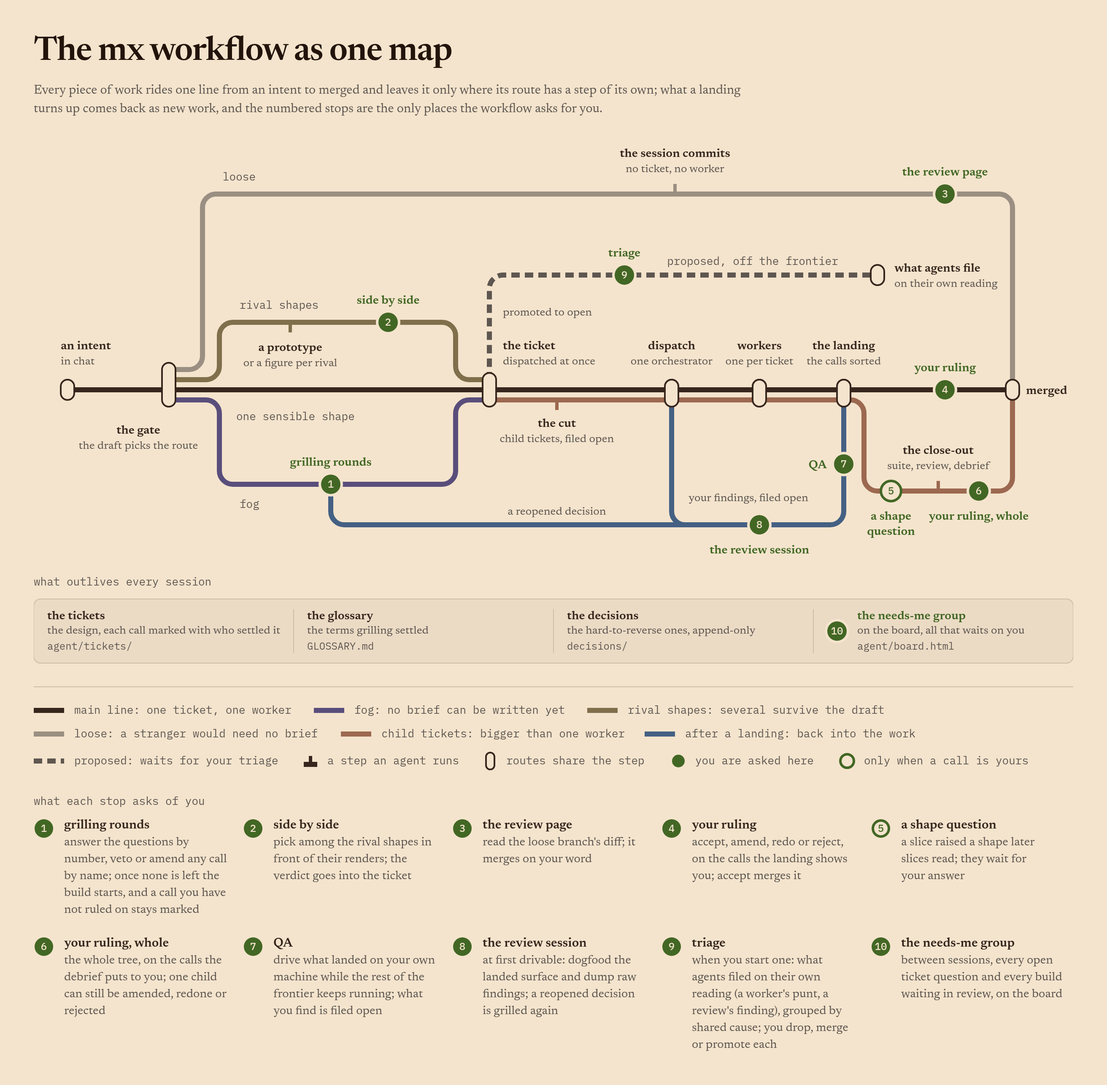
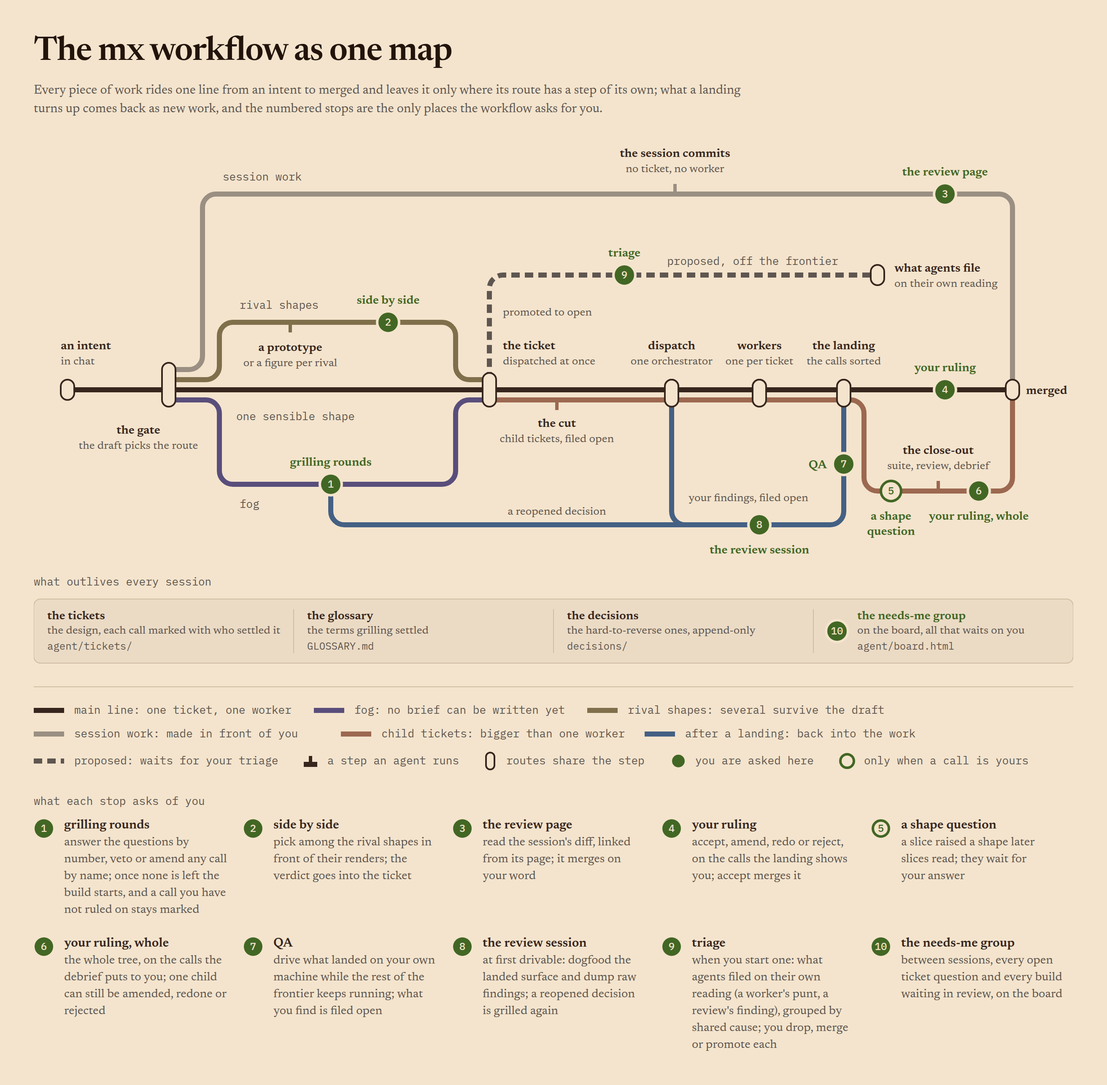
feat(orient): retire loose work; a change the session makes itself is session work
A change the session can make with the user in front of it is now session work: committed from a
worktree of its own with the trailer its content earns, reviewed lightly when it needed judgment,
delivered by a session page turn that links the review page of its range, its artefacts under the
session's own directory. The `loose` trailer, branch-named show directories and their retirement
rule go, and orient's test becomes the one it already applies to a ticket: does the change need a
brief a stranger could build from. The workflow map keeps its top route, relabelled.

Workflow-stage: implement
Session: 9eb8f56b-00c4-4993-ac76-fdb855bc9635

diff --git a/docs/figures/workflow-map.html b/docs/figures/workflow-map.html
@@ -273,7 +273,7 @@
   --l-main: var(--body);
   --l-fog: var(--series-4);
   --l-rival: var(--series-3);
-  --l-loose: color-mix(in srgb, var(--muted) 60%, var(--ground));
+  --l-session: color-mix(in srgb, var(--muted) 60%, var(--ground));
   --l-tree: var(--series-1);
   --l-loop: var(--series-2);
   --l-proposed: var(--muted);
@@ -287,7 +287,7 @@ h1{margin:0;}
 svg.map{display:block; width:100%; height:auto;}
 .ln{fill:none; stroke-width:6; stroke-linecap:butt; stroke-linejoin:round;}
 .main{stroke:var(--l-main);} .fog{stroke:var(--l-fog);} .rival{stroke:var(--l-rival);}
-.loose{stroke:var(--l-loose);} .tree{stroke:var(--l-tree);} .loop{stroke:var(--l-loop);}
+.session{stroke:var(--l-session);} .tree{stroke:var(--l-tree);} .loop{stroke:var(--l-loop);}
 .proposed{stroke:var(--l-proposed); stroke-dasharray:10 6;}
 .tick{stroke-width:4; stroke-linecap:butt;}
 .xchg{fill:var(--ground); stroke:var(--body); stroke-width:2;}
@@ -320,7 +320,7 @@ svg.map{display:block; width:100%; height:auto;}
 <!-- a data-step of N: the part appears at step N of the story page; untagged is the frame -->
 <svg class="map" viewBox="0 44 1232 1084" xmlns="http://www.w3.org/2000/svg">
   <!-- ===== lines ===== -->
-  <path data-step="5" class="ln loose" d="M168,312 H184 A16,16 0 0 0 200,296 V120 A16,16 0 0 1 216,104 H1144 A16,16 0 0 1 1160,120 V324"/>
+  <path data-step="5" class="ln session" d="M168,312 H184 A16,16 0 0 0 200,296 V120 A16,16 0 0 1 216,104 H1144 A16,16 0 0 1 1160,120 V324"/>
   <path data-step="4" class="ln rival" d="M168,324 H204 A16,16 0 0 0 220,308 V272 A16,16 0 0 1 236,256 H484 A16,16 0 0 1 500,272 V308 A16,16 0 0 0 516,324 H532"/>
   <path data-step="3" class="ln fog" d="M168,348 H204 A16,16 0 0 1 220,364 V432 A16,16 0 0 0 236,448 H484 A16,16 0 0 0 500,432 V364 A16,16 0 0 1 516,348 H532"/>
   <path data-step="6" class="ln tree" d="M548,348 H968 A16,16 0 0 1 984,364 V440 A16,16 0 0 0 1000,456 H1144 A16,16 0 0 0 1160,440 V348"/>
@@ -330,7 +330,7 @@ svg.map{display:block; width:100%; height:auto;}
   <path data-step="1" class="ln main" d="M48,336 H1152"/>
 
   <!-- ===== stations an agent runs ===== -->
-  <line data-step="5" class="tick loose" x1="760" y1="101" x2="760" y2="92"/>
+  <line data-step="5" class="tick session" x1="760" y1="101" x2="760" y2="92"/>
   <line data-step="4" class="tick rival" x1="304" y1="259" x2="304" y2="268"/>
   <line data-step="6" class="tick tree" x1="620" y1="351" x2="620" y2="360"/>
   <line data-step="8" class="tick tree" x1="1072" y1="453" x2="1072" y2="444"/>
@@ -382,7 +382,7 @@ svg.map{display:block; width:100%; height:auto;}
 
   <!-- the gate's branches -->
   <g>
-    <text data-step="5" class="tag" x="224" y="88">loose</text>
+    <text data-step="5" class="tag" x="224" y="88">session work</text>
     <text data-step="4" class="tag" x="244" y="240">rival shapes</text>
     <text data-step="1" class="tag" x="240" y="372">one sensible shape</text>
     <text data-step="3" class="tag" x="244" y="476">fog</text>
@@ -450,7 +450,7 @@ svg.map{display:block; width:100%; height:auto;}
   <line data-step="1" class="ln main" x1="0" y1="716" x2="36" y2="716"/>
   <line data-step="3" class="ln fog" x1="332" y1="716" x2="368" y2="716"/>
   <line data-step="4" class="ln rival" x1="656" y1="716" x2="692" y2="716"/>
-  <line data-step="5" class="ln loose" x1="0" y1="744" x2="36" y2="744"/>
+  <line data-step="5" class="ln session" x1="0" y1="744" x2="36" y2="744"/>
   <line data-step="6" class="ln tree" x1="364" y1="744" x2="400" y2="744"/>
   <line data-step="10" class="ln loop" x1="724" y1="744" x2="760" y2="744"/>
   <line data-step="13" class="ln proposed" x1="0" y1="776" x2="36" y2="776"/>
@@ -462,7 +462,7 @@ svg.map{display:block; width:100%; height:auto;}
   <text data-step="1" class="tag" x="48" y="720">main line: one ticket, one worker</text>
   <text data-step="3" class="tag" x="380" y="720">fog: no brief can be written yet</text>
   <text data-step="4" class="tag" x="704" y="720">rival shapes: several survive the draft</text>
-  <text data-step="5" class="tag" x="48" y="748">loose: a stranger would need no brief</text>
+  <text data-step="5" class="tag" x="48" y="748">session work: made in front of you</text>
   <text data-step="6" class="tag" x="412" y="748">child tickets: bigger than one worker</text>
   <text data-step="10" class="tag" x="772" y="748">after a landing: back into the work</text>
   <text data-step="13" class="tag" x="48" y="780">proposed: waits for your triage</text>
@@ -486,7 +486,7 @@ svg.map{display:block; width:100%; height:auto;}
   <g data-step="5">
     <circle class="kdot" cx="508" cy="856" r="11"/><text class="num" x="508" y="860">3</text>
     <text class="kname" x="532" y="856">the review page</text>
-    <text class="kdesc"><tspan x="532" y="876">read the loose branch's diff; it</tspan><tspan x="532" dy="20">merges on your word</tspan></text>
+    <text class="kdesc"><tspan x="532" y="876">read the session's diff, linked</tspan><tspan x="532" dy="20">from its page; it merges on</tspan><tspan x="532" dy="20">your word</tspan></text>
   </g>
   <g data-step="2">
     <circle class="kdot" cx="756" cy="856" r="11"/><text class="num" x="756" y="860">4</text>

diff --git a/mx/README.md b/mx/README.md
@@ -6,7 +6,7 @@ A workflow for working with many agents at once and keeping the overview. Every 
 
 <picture>
   <source media="(prefers-color-scheme: dark)" srcset="assets/workflow-map.png">
-  <img alt="The mx workflow as a transit map: one main line runs left to right from an intent in chat through the gate, where the draft picks the route, to the ticket, dispatched at once, then dispatch with one orchestrator, workers, one per ticket, and the landing, where the calls are sorted, to your ruling and merged. Three branches leave at the gate: loose runs along the top, the session committing with no ticket and no worker, to the review page and on to merged; rival shapes go through a prototype or a figure per rival, judged side by side; fog dips below the line through grilling rounds; both rejoin at the ticket. Work bigger than one worker leaves the ticket as child tickets, cut and filed open by the agent, and returns through a shape question only when a slice raises one, the close-out's suite, review and debrief, and your ruling on the whole tree. After a landing a loop runs through QA and the review session: your findings go back to dispatch filed open, and a reopened decision goes back to grilling. What agents file on their own reading, a worker's punt or a review's finding, runs dashed and proposed, off the frontier, to a triage you start, and rejoins at the ticket once promoted to open. A strip along the bottom holds what outlives every session: the tickets, the glossary, the decisions, and the board's needs-me group, where everything waiting on you sits. The ten numbered stops in moss are the only places the workflow asks for you" src="assets/workflow-map-light.png">
+  <img alt="The mx workflow as a transit map: one main line runs left to right from an intent in chat through the gate, where the draft picks the route, to the ticket, dispatched at once, then dispatch with one orchestrator, workers, one per ticket, and the landing, where the calls are sorted, to your ruling and merged. Three branches leave at the gate: session work runs along the top, the session committing with no ticket and no worker, to the review page and on to merged; rival shapes go through a prototype or a figure per rival, judged side by side; fog dips below the line through grilling rounds; both rejoin at the ticket. Work bigger than one worker leaves the ticket as child tickets, cut and filed open by the agent, and returns through a shape question only when a slice raises one, the close-out's suite, review and debrief, and your ruling on the whole tree. After a landing a loop runs through QA and the review session: your findings go back to dispatch filed open, and a reopened decision goes back to grilling. What agents file on their own reading, a worker's punt or a review's finding, runs dashed and proposed, off the frontier, to a triage you start, and rejoins at the ticket once promoted to open. A strip along the bottom holds what outlives every session: the tickets, the glossary, the decisions, and the board's needs-me group, where everything waiting on you sits. The ten numbered stops in moss are the only places the workflow asks for you" src="assets/workflow-map-light.png">
 </picture>
 
 <details>
@@ -43,7 +43,7 @@ One tree of tickets, the rest hidden by their chips; a ticket opened to its ques
 
 <picture>
   <source media="(prefers-color-scheme: dark)" srcset="assets/board-feature.png">
-  <img alt="One tree on the board, the other tree and the loose tickets hidden by their chips: a prototype in the needs-me group opened to its question with its detail, the two sessions that committed on it each with a button copying the command that resumes it, its show directory with a runnable script and a button copying the command that runs it, and its acceptance criteria as a checklist; below it a slice stopped on a question, the frontier, the claimed work, a blocked slice, and the proposed group, holding a ticket an agent filed that waits off the frontier for a triage, and the tree's dependency graph beside the rows with the opened ticket marked" src="assets/board-feature-light.png">
+  <img alt="One tree on the board, the other tree and the standalone tickets hidden by their chips: a prototype in the needs-me group opened to its question with its detail, the two sessions that committed on it each with a button copying the command that resumes it, its show directory with a runnable script and a button copying the command that runs it, and its acceptance criteria as a checklist; below it a slice stopped on a question, the frontier, the claimed work, a blocked slice, and the proposed group, holding a ticket an agent filed that waits off the frontier for a triage, and the tree's dependency graph beside the rows with the opened ticket marked" src="assets/board-feature-light.png">
 </picture>
 
 </details>
@@ -88,7 +88,7 @@ Every session you sit at answers on its session page, which the bullet "A sessio
 | Board             | `agent/board.html`                   | gitignored, re-rendered on every tracker change                       | the whole tracker as one page: the needs-me group with its questions, the trees, dependency graphs, frontier, the briefing, review-page links       |
 | Research          | `agent/research/NN-slug.md`          | committed; retired with the tickets citing it                         | detail too long for the ticket that asked, cited                                                                                                                    |
 | Prototype         | `agent/prototypes/<slug>/`           | committed; retired with the work it served                            | code that answered a design question + `ANSWER.md`                                                                                                                  |
-| Show              | `agent/show/<slug>/`, `<branch>/`    | committed with the round or the landing that made it; retired with the ticket or branch it served | an explanation carried by an artefact                                                                                                                               |
+| Show              | `agent/show/<slug>/`, `agent/sessions/<id>/show/` | committed with the round or the landing that made it, a session's with its records as it ends; a ticket's retired with it | an explanation carried by an artefact                                                                                                                               |
 | Handoff           | `agent/handoffs/YYYY-MM-DD-slug.md`  | committed; retired by the session that picks it up                    | a session compacted for a fresh one to start from                                                                                                                  |
 | Retro             | `agent/retro/`                       | durable; rewritten whole by every retro run                           | the tracker's living report, over every repo it plans, and the page built from it |
 
@@ -98,7 +98,7 @@ Every session you sit at answers on its session page, which the bullet "A sessio
 
 The gate picks the first thing you judge: the session drafts the ticket, builds it when the intent has one sensible shape, prototypes the rivals when it has several, and grills it when no brief can be written yet (`/mx:grilling`: relentless interview; each round delivers the design whole and writes it to the ticket; glossary terms and ADRs land as residue). Then the cut into child tickets (tracer-bullet vertical slices with blocking edges, as soon as the interview has no question left for you; `/mx:tracker`) → `/mx:dispatch` works them: a fresh worker per ticket, its contract the prompt dispatch appends to it (testing inside, code-review at the end), serial or in waves, the board as the standing view. Work that is one slice stays one ticket and is dispatched as it is.
 
-**`/mx:orient` is the map**: the gate, the question that routes an intent to loose work or a ticket, the main flow, its on-ramps, and when to reach for what.
+**`/mx:orient` is the map**: the gate, the question that routes an intent to session work or a ticket, the main flow, its on-ramps, and when to reach for what.
 
 Planning that outgrows one session keeps its artefacts: the open questions leave as child tickets that need you, the next session claims one and grills it, and the ticket grows until its frontier is empty.
 

diff --git a/mx/skills/orient/SKILL.md b/mx/skills/orient/SKILL.md
@@ -17,7 +17,7 @@ A **flow** is a path through the skills. Most work travels one **main flow**, wi
 | Board             | `agent/board.html`                   | gitignored, re-rendered on every tracker change                       | the whole tracker as one page: the needs-me group with its questions, the trees, dependency graphs, frontier, review-page links                                                                                       |
 | Research          | `agent/research/NN-slug.md`          | committed; retired with the tickets citing it (`/mx:tracker`)         | detail too long for the ticket that asked the question, cited                                                                                                                                                                  |
 | Prototype         | `agent/prototypes/<slug>/`           | committed; retired with the work it served (`/mx:tracker`)             | throwaway code that answered a design question + `ANSWER.md` (question, verdicts)                                                                                      |
-| Show              | `agent/show/<slug>/`, `<branch>/`    | committed with the round or the landing that made it; retired in the commit that retires the ticket or branch it served (`/mx:tracker`) | an explanation carried by an artefact: diagram, comparison, run output, explainer page                                                                                                           |
+| Show              | `agent/show/<slug>/`, `agent/sessions/<id>/show/` | committed with the round or the landing that made it, a session's with its records as it ends; a ticket's retired in the commit that retires the ticket (`/mx:tracker`) | an explanation carried by an artefact: diagram, comparison, run output, explainer page                                                                                                           |
 | Handoff           | `agent/handoffs/YYYY-MM-DD-slug.md`  | committed; retired by the session that picks it up (`/mx:handoff`)    | a session compacted for a fresh one to start from                                                                                                                                              |
 | Retro             | `agent/retro/`                       | durable; the report rewritten whole and committed by every retro run (`/mx:retro`) | the living report, `report.md`, and the page built from it; `<name>/`, the same for a repo with no agent repo of its own that this tracker plans; in the agents repo's, `repos`, the other repos the workflow retro collects |
 
@@ -43,9 +43,9 @@ One intent per route, from mx's own tracker:
 
 1. **`/mx:grilling`**, the fog route: sharpen the intent by interview, as deep as its ambiguity needs, from one question to a full interview. Stateful: the design lands in the ticket as it settles, terms in `GLOSSARY.md`, hard-to-reverse decisions in `decisions/` (both via `/mx:domain-modelling`). External inputs (a meeting transcript, a client brief, a bug report) pass the gate like any intent; the foggy ones are grilled here through their unstated assumptions. Planning that outgrows the session keeps going (`/mx:grilling`, Across sessions); how many sessions the frontier takes is discovered, not declared.
 2. **`/mx:prototype`**, the rival-shapes route; where the rivals differ in how they fit rather than in how they run, a concept figure per rival (`/mx:show`) is the cheaper render. A prototype is forked out by `/mx:handoff` into a fresh session that builds the throwaway code; the prototype's `ANSWER.md` carries the verdicts back. A user-visible surface the user is blank on belongs here rather than in another grilling round: surface judgment is **render-triggered**, and a human blank on "how should it look" produces sharp criticism in front of a render.
-3. **Loose, or a ticket.** What lands on disk decides who builds, and one question decides it: would a stranger need a brief to build this right? Loose: the instruction is the change; a stranger could apply it from the chat line without reading code (a keybinding, a version bump, "rename X to Y"). Everything else is a ticket, carrying the draft and whatever design a grilling or a prototype settled. A ticket that needs the conversation to make sense marks a decision that has not been made: the gate's fog route, not a bigger brief.
+3. **Session work, or a ticket.** What lands on disk decides who builds, and one question decides it: does the change need a brief a stranger could build from? Then it is a ticket, carrying the draft and whatever design a grilling or a prototype settled. A change the session can make with the user in front of it (a keybinding, a version bump, "rename X to Y") is session work. A ticket that needs the conversation to make sense marks a decision that has not been made: the gate's fog route, not a bigger brief.
 
-   - **Loose** is the absence of a brief: no ticket, no worker, no agent review. The session commits code on its own branch with the `loose` trailer, and its show in `agent/show/<branch>/` (`/mx:show`); `/mx:tracker` has how both leave. The review page is the user's station for it, over the code branch's range; its artefacts in the agent repo are opened as themselves. Its landing is step 5's with one session playing both parts.
+   - **Session work** has no ticket and no worker. The session edits in a worktree of its own and commits with the trailer the content earns (`implement` for code); a change that needed judgment gets a light `/mx:code-review` before the user sees it, an edit the user dictated none. The session page turn that delivers it links the review page of its range, `diffview <base>...<branch> -o agent/diffviews/<branch>.html` run in the main checkout, beside the ticket pages `dispatch review` renders there; the plugin assumes `diffview` on the machine, as dispatch does. Its artefacts go to `show/` in the session's directory (`/mx:show`). The merge waits for the user's word on it, as any merge does.
    - **A ticket** is filed per `/mx:tracker` and dispatched at once by the session that wrote it, with no permission asked. A ticket the gate sent straight to the build is filed `open`, since the user voiced it, its framing marked agent-sketched (`/mx:tracker`, provenance), and the session stays with the user instead of waiting on the build; it can also be cleared, since the worker outlives it and any later session integrates the result.
    - **Work bigger than one fresh worker** is cut into **child tickets** first (`/mx:tracker`, SLICING.md), each a vertical slice of the ticket holding the design. The session that grilled it can build one, as that slice's worker, in a worktree of its own and under the worker contract, which is [`worker-prompt.md`](../dispatch/worker-prompt.md): read it as the worker would.
 

diff --git a/mx/skills/dispatch/worker-prompt.md b/mx/skills/dispatch/worker-prompt.md
@@ -57,7 +57,7 @@ You work alone in your own checkout or worktree; nobody else commits into it. Co
 - Use `git mv` rather than `mv` to rename a tracked file.
 - A commit subject is a conventional commit, `type(scope): imperative summary` (`fix(tracker): refuse a slug with spaces`), unless the repo's own history follows another convention; the body opens with what the change gives its reader, in a sentence, then the why.
 - Commit as you go without asking. You never merge, and pushing isn't your job: the agent that dispatched you takes your branch from where it is. Ship-shaped actions are never yours to trigger: releases, deploys, changes to running systems, issues or PRs on any project.
-- Commits you author carry a `Workflow-stage:` trailer, classified by what the commit contains, never by what the session has been doing: `grill` (tickets, ADR, GLOSSARY.md) | `prototype` (agent/prototypes/) | `implement` (code for a defined piece of work, ticketed or not) | `review` (fixes addressing a /mx:code-review pass) | `loose` (interactive figure-it-out-with-the-user work, agent/show/ included, if tracked). A commit with no trailer reads as work that did not follow the workflow; that's a greppable signal, and CAN be fine, so leave it absent rather than guessing.
+- Commits you author carry a `Workflow-stage:` trailer, classified by what the commit contains, never by what the session has been doing: `grill` (tickets, ADR, GLOSSARY.md) | `prototype` (agent/prototypes/) | `implement` (code for a defined piece of work, ticketed or not) | `review` (fixes addressing a /mx:code-review pass). A commit with no trailer reads as work that did not follow the workflow; that's a greppable signal, and CAN be fine, so leave it absent rather than guessing.
 </git>
 
 <style>

diff --git a/claude/CLAUDE.md b/claude/CLAUDE.md
@@ -77,7 +77,7 @@ Commit, merge, and push -- when and how:
 Commit messages:
   - Conventional -- unless a repo clearly follows another convention -- `type(scope): imperative summary (the what)`, the body carries the why (and optionally details on the what).
   - A merge commit's subject states what the branch as a whole delivered, with no `Merge:`/`Merge branch` marker; the commit's two parents already record that it's a merge.
-  - Include a `Workflow-stage:` trailer, classified by what the commit contains, never by what the session has been doing: `grill` (tickets, ADR, GLOSSARY.md) | `prototype` (agent/prototypes/) | `implement` (code for a defined piece of work, ticketed or not) | `review` (fixes addressing a /mx:code-review pass) | `loose` (interactive figure-it-out-with-the-user work, agent/show/ included, if tracked). A commit with no trailer reads as work that did not follow the workflow; that's a greppable signal, and CAN be fine, so leave it absent rather than guessing.
+  - Include a `Workflow-stage:` trailer, classified by what the commit contains, never by what the session has been doing: `grill` (tickets, ADR, GLOSSARY.md) | `prototype` (agent/prototypes/) | `implement` (code for a defined piece of work, ticketed or not) | `review` (fixes addressing a /mx:code-review pass). A commit with no trailer reads as work that did not follow the workflow; that's a greppable signal, and CAN be fine, so leave it absent rather than guessing.
 
 Miscl hygiene:
 - Unless you have a very good reason not to, clone from the remote/github url and not `git clone /path/to/repo`. 

diff --git a/mx/skills/show/SKILL.md b/mx/skills/show/SKILL.md
@@ -54,7 +54,7 @@ Every landing (`/mx:dispatch`) comes with its review page and one show, a build 
 
 ## Where it goes
 
-An artifact goes to the show directory of the work it serves, committed with that work: `agent/show/<slug>/` for a ticket, `agent/show/<branch>/` for loose work. That directory is the agent repo's, so `git -C agent` is what commits it, and a landing's show is committed in its main checkout, as a ticket file is. One that serves no ticket or branch goes to `~/Downloads/show/<slug>/` instead: the user wants it throwaway, there is no repo to keep it in, or the repo is the wrong home for it.
+An artifact goes to the show directory of the work it serves. A ticket's is `agent/show/<slug>/`, committed with that work: that directory is the agent repo's, so `git -C agent` is what commits it, and a landing's show is committed in its main checkout, as a ticket file is. Session work's (`/mx:orient`) is `show/` in the session's directory, the one `session-page` prints, committed with the session's records as it ends. One that serves neither goes to `~/Downloads/show/<slug>/` instead: the user wants it throwaway, there is no repo to keep it in, or the repo is the wrong home for it.
 
 ## A figure
 

diff --git a/docs/figures/story/story.md b/docs/figures/story/story.md
@@ -25,7 +25,7 @@ step: 4
 An intent with several sensible shapes gets a throwaway prototype or a concept figure per shape, and you pick in front of the renders; the verdict goes into the ticket. Matt Pocock's walkthrough does the same for front-end work, asking for three prototypes to click between.
 
 step: 5
-Work a stranger could do from one chat line, such as a rename, gets no ticket, no worker and no agent review. The session commits it, you read the diff on a review page, and it merges on your word.
+A change the session can make with you in front of it, such as a rename, gets no ticket and no worker. The session commits it in a worktree of its own, its page links the review page of the diff, and it merges on your word.
 
 step: 6
 Work bigger than one worker is cut into child tickets, each a vertical slice through every layer it touches, and they go through the same dispatch, workers and landing into the parent's branch. Matt Pocock's walkthrough says why vertical: an agent left to itself builds layer by layer, and gets no feedback on the whole until the last layer is done.

diff --git a/mx/skills/tracker/SKILL.md b/mx/skills/tracker/SKILL.md
@@ -82,7 +82,7 @@ While nothing is built on a ticket's answer, a later decision that overturns it 
 
 A **finished tree** leaves the live tracker through `tracker retire`, whose `--help` says what a finished tree is and what goes with it. Dispatch runs it after its landings, and a session that writes a `done` itself runs it after that commit. What a README, a PR or the build still needs is promoted out of `agent/show/` before the `done` (`/mx:show`, Promotion). `git log --diff-filter=D -- tickets show prototypes`, run in the agent repo, is where retired work is read afterwards.
 
-Loose work has no ticket to retire: its show directory and the prototypes it made are the agent repo's, committed in that repo's own checkout on the branch it has out, as a ticket's files are, and `git -C agent rm`'d there once the code branch they served has merged.
+Session work (`/mx:orient`) has no ticket to retire: its artefacts are committed with the session's records as it ends, under `sessions/<id>/show/` (`/mx:show`), and stay there with them.
 
 ## Board
 

diff --git a/mx/skills/code-review/SKILL.md b/mx/skills/code-review/SKILL.md
@@ -27,7 +27,7 @@ Look for what the work was ordered by, in this order:
 2. The ticket the branch builds: `tracker context <slug>` is its body with every ancestor's, which is the whole order for this work, and a branch named `ticket/<slug>` names its slug.
 3. Issue/PR references in the commit messages (`#123`, `Closes #45`), fetched via `gh`.
 4. A specification the repo keeps outside the tracker: `docs/`, `specs/` matching the branch name.
-5. If nothing is found, ask the user where it is, unless the work is plainly loose in-session work that never had one.
+5. If nothing is found, ask the user where it is, unless the work is session work, which never had one.
 
 It travels to the reviewers as a file, so a fetched issue body or text the user pasted is written to one. Anything else the reviewers must not reopen goes in that file too: linked issues, a PR's prior review discussion.
 

diff --git a/GLOSSARY.md b/GLOSSARY.md
@@ -175,6 +175,10 @@ _Avoid_: context budget, token budget
 The one page a session's answers live on, the questions waiting on the user at its top.
 _Avoid_: session artifact, transcript, notebook, log
 
+**Session work**:
+A change a session makes itself, with the user in front of it, rather than a ticket a worker builds.
+_Avoid_: loose work
+
 ### Retros
 
 **Retro**:
